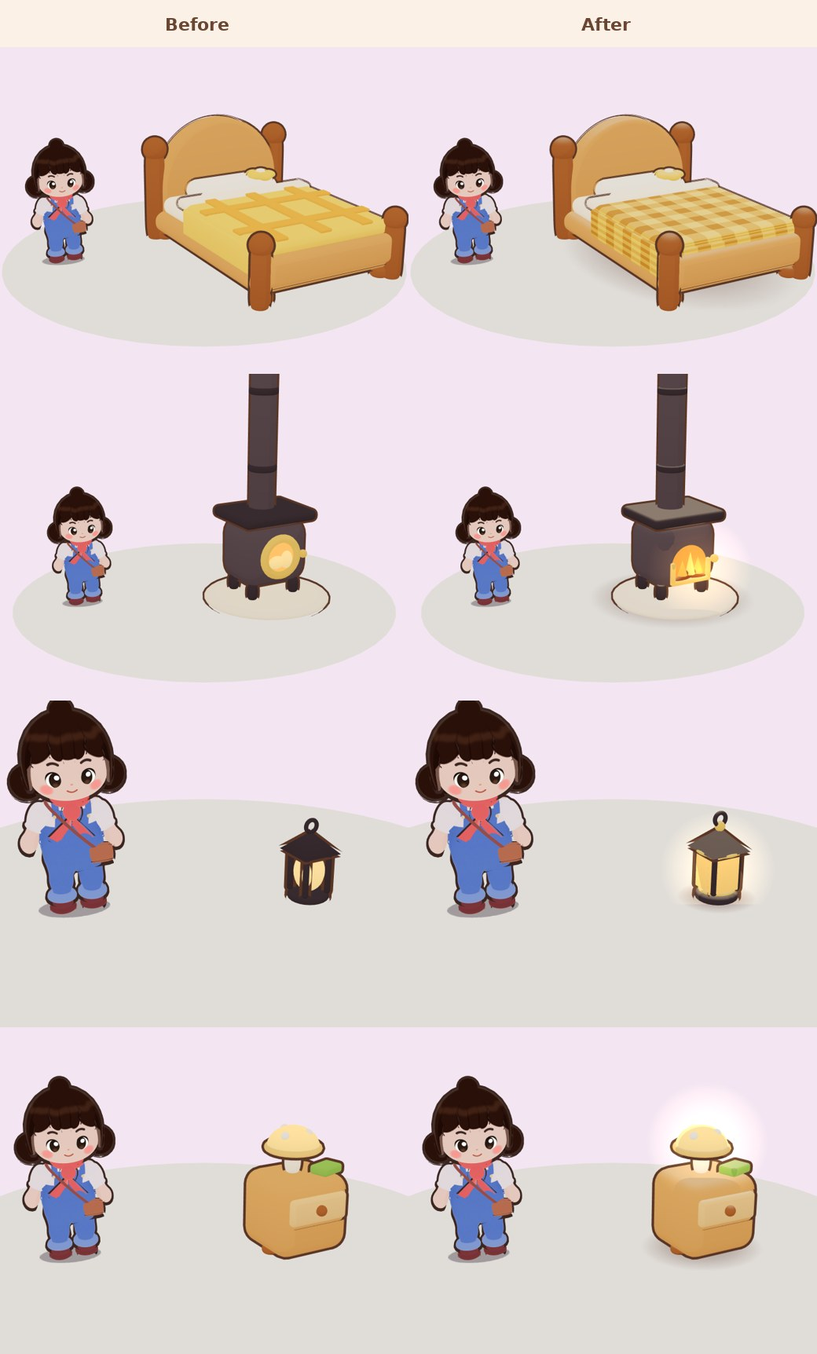
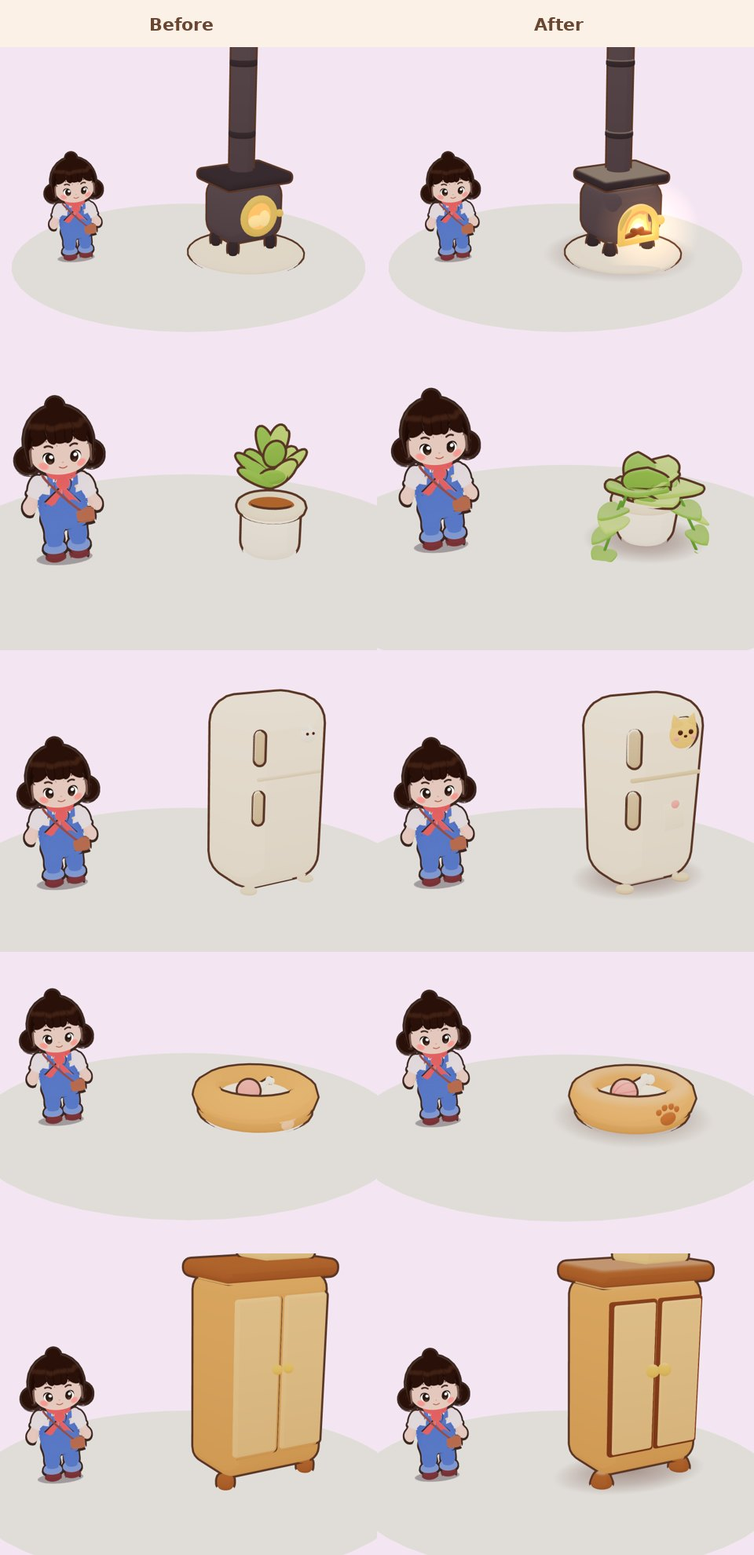
Props: animated fire, pothos + leafy plants, chibi shaping, bigger details
Kit: an animated cartoon fire (posterised flame bands that lick and sway,
one shared shader), flickering halos, heart-shaped leaves with clumps and
trailing vines, an arch-frame primitive, and belly / taper shaping so
bodies bulge a little instead of being plain boxes.

Items: the wood stove has a real fire (live flame, embers, glowing log
ends, brass arch); plants are now a pothos with trailing vines, a leafy
floor plant and a daisy pot; fridge, wardrobe, nightstand, pouf, stool and
legs get gentle bulges/tapers; bigger knobs and drawn panel seams, a large
cat-face magnet on the fridge, a big paw print, chunkier bone and a wrapped
yarn ball on the pet bed; gingham cloth on the table.

Claude-Session: https://claude.ai/code/session_01CNaBwL7WGoZ8QVtCgzA9vc

diff --git a/src/props/items/home.js b/src/props/items/home.js
@@ -1,133 +1,159 @@
-// First batch of chibi furniture, after the cozy-house concept. All in room units (she is ~0.41 tall), front = +z.
-// Chunky on purpose: thick tops, stubby round legs, big knobs, puffy cushions, every edge rounded.
+// First batch of chibi furniture, after the cozy-house concept. All in room units (she is ~0.39 tall), front = +z.
+// Chunky on purpose: thick tops, stubby round legs, big knobs, puffy cushions, every edge rounded, bodies that bulge a
+// little (belly / taper), and details drawn big enough to read from the game camera.
 import { defineProp } from '../kit.js'
 
 const PI = Math.PI
-const legs4 = (k, w, d, h, r = 0.026, name = 'woodDark', y0 = 0) => { for (const sx of [-1, 1]) for (const sz of [-1, 1]) k.pill([r, h], [sx * w / 2, y0 + h / 2, sz * d / 2], name, { bevel: 0.35 }) }
+const legs4 = (k, w, d, h, r = 0.026, name = 'woodDark', y0 = 0) => { for (const sx of [-1, 1]) for (const sz of [-1, 1]) k.pill([r, h], [sx * w / 2, y0 + h / 2, sz * d / 2], name, { bevel: 0.35, taper: -0.2 }) }
+// a raised panel with a darker inset line around it (drawers, doors): reads like the concept's drawn seams
+const panel = (k, size, pos, name, line = 'trim', r = 0.02) => { k.box([size[0] + 0.012, size[1] + 0.012, size[2]], [pos[0], pos[1], pos[2] - 0.003], line, { r: r + 0.004, out: false, hi: 0 }); k.box(size, pos, name, { r, out: false }) }
 
-defineProp('bed', { name: 'Bed', size: [0.5, 0.34, 0.72], tags: ['bedroom'], pal: { frame: 'wood', post: 'woodDark', sheet: 'cream', quilt: 'quilt', stripe: 'quiltDark', pillow: 'white', flower: 'quilt' } }, (k) => {
-  // quilt top at ~0.15: knee-to-hip on her (she is ~0.39 tall)
+defineProp('bed', { name: 'Bed', size: [0.5, 0.34, 0.72], tags: ['bedroom'], pal: { frame: 'wood', post: 'woodDark', sheet: 'cream', quilt: 'quilt', pillow: 'white', flower: 'quilt' } }, (k) => {
+  // quilt top at ~0.15: knee-to-hip on her
   legs4(k, 0.42, 0.62, 0.035, 0.03, 'post')
-  k.box([0.5, 0.07, 0.68], [0, 0.065, 0], 'frame', { r: 0.03 })
+  k.box([0.5, 0.07, 0.68], [0, 0.065, 0], 'frame', { r: 0.03, belly: 0.03 })
   // headboard: a fat arch between two round posts with ball finials
   k.arch(0.42, 0.12, 0.05, [0, 0.05, -0.33], 'frame', { bevel: 0.014 })
-  for (const s of [-1, 1]) { k.pill([0.032, 0.3], [s * 0.235, 0.15, -0.33], 'post', { bevel: 0.2 }); k.ball(0.04, [s * 0.235, 0.31, -0.33], 'post') }
+  k.arch(0.3, 0.07, 0.02, [0, 0.1, -0.3], 'woodLight', { bevel: 0.008, out: false })
+  for (const s of [-1, 1]) { k.pill([0.034, 0.3], [s * 0.235, 0.15, -0.33], 'post', { bevel: 0.2, belly: 0.12 }); k.ball(0.044, [s * 0.235, 0.315, -0.33], 'post') }
   // footboard: lower, same language
   k.box([0.44, 0.09, 0.045], [0, 0.1, 0.335], 'frame', { r: 0.02 })
-  for (const s of [-1, 1]) { k.pill([0.028, 0.18], [s * 0.235, 0.09, 0.335], 'post', { bevel: 0.2 }); k.ball(0.034, [s * 0.235, 0.185, 0.335], 'post') }
-  // mattress, pillow, quilt with a folded-back sheet and fat stripes, flower cushion
+  for (const s of [-1, 1]) { k.pill([0.03, 0.18], [s * 0.235, 0.09, 0.335], 'post', { bevel: 0.2, belly: 0.12 }); k.ball(0.038, [s * 0.235, 0.19, 0.335], 'post') }
+  // mattress, pillow, gingham quilt draped over the sides and foot, a folded-back sheet, flower cushion
   k.puff([0.45, 0.06, 0.62], [0, 0.12, 0], 'sheet', { bulge: 0.25 })
-  k.puff([0.3, 0.065, 0.14], [0, 0.17, -0.22], 'pillow', { bulge: 0.6 })
-  k.puff([0.48, 0.045, 0.44], [0, 0.155, 0.1], 'quilt', { bulge: 0.3, pattern: 'gingham', tile: 5 })
-  k.puff([0.48, 0.032, 0.07], [0, 0.17, -0.13], 'sheet', { bulge: 0.4 })
+  k.puff([0.32, 0.075, 0.15], [0, 0.175, -0.22], 'pillow', { bulge: 0.75 })
+  k.puff([0.48, 0.045, 0.44], [0, 0.155, 0.1], 'quilt', { bulge: 0.35, pattern: 'gingham', tile: 5 })
+  k.puff([0.48, 0.032, 0.07], [0, 0.17, -0.13], 'sheet', { bulge: 0.45 })
   for (const s of [-1, 1]) k.puff([0.014, 0.09, 0.42], [s * 0.242, 0.12, 0.1], 'quilt', { bulge: 0.1, out: false, pattern: 'gingham', tile: 4 })
   k.puff([0.46, 0.08, 0.014], [0, 0.12, 0.322], 'quilt', { bulge: 0.1, out: false, pattern: 'gingham', tile: 5 })
-  for (let i = 0; i < 5; i++) { const a = i / 5 * PI * 2; k.ball([0.026, 0.014, 0.026], [0.1 + Math.sin(a) * 0.026, 0.21, -0.2 + Math.cos(a) * 0.026], 'flower') }
-  k.ball([0.018, 0.016, 0.018], [0.1, 0.216, -0.2], 'cream', { out: false })
+  for (let i = 0; i < 5; i++) { const a = i / 5 * PI * 2; k.ball([0.034, 0.018, 0.034], [0.1 + Math.sin(a) * 0.034, 0.215, -0.19 + Math.cos(a) * 0.034], 'flower', { rot: [0, a, 0] }) }
+  k.ball([0.024, 0.02, 0.024], [0.1, 0.224, -0.19], 'cream', { out: false })
 })
 
 defineProp('roundTable', { name: 'Round table', size: [0.42, 0.24, 0.42], tags: ['living'], pal: { top: 'wood', leg: 'woodDark', cloth: 'cream' } }, (k, o) => {
-  k.pill([0.2, 0.045], [0, 0.135, 0], 'top', { bevel: 0.45, seg: 32 })
+  k.pill([0.2, 0.048], [0, 0.135, 0], 'top', { bevel: 0.48, seg: 32 })
   k.pill([0.16, 0.025], [0, 0.105, 0], 'leg', { bevel: 0.3, out: false })
-  for (let i = 0; i < 3; i++) { const a = i / 3 * PI * 2 + 0.5; k.stick([0.024, 0.13], [Math.sin(a) * 0.105, 0.055, Math.cos(a) * 0.105], 'leg', { rot: [-Math.cos(a) * 0.25, 0, Math.sin(a) * 0.25] }) }
-  k.box([0.3, 0.01, 0.12], [0, 0.16, 0], 'cloth', { r: 0.004, rot: [0, 0.3, 0] })
-  if (o.vase !== false) { k.ball([0.032, 0.038, 0.032], [-0.02, 0.195, -0.04], 'white'); k.pill([0.016, 0.03], [-0.02, 0.235, -0.04], 'white', { bevel: 0.3 })
-    k.leaves([-0.02, 0.25, -0.04], 5, 0.05, 'leaf', { tilt: 1.1 })
-    for (let i = 0; i < 5; i++) { const a = i * 1.3; k.daisy([-0.02 + Math.sin(a) * 0.028 * (i ? 1 : 0), 0.27 + (i % 2) * 0.012, -0.04 + Math.cos(a) * 0.028 * (i ? 1 : 0)], 0.022) } }
+  for (let i = 0; i < 3; i++) { const a = i / 3 * PI * 2 + 0.5; k.stick([0.026, 0.13], [Math.sin(a) * 0.105, 0.055, Math.cos(a) * 0.105], 'leg', { rot: [-Math.cos(a) * 0.25, 0, Math.sin(a) * 0.25], taper: -0.25 }) }
+  k.box([0.3, 0.01, 0.12], [0, 0.162, 0], 'cloth', { r: 0.004, rot: [0, 0.3, 0], pattern: 'gingham', tile: 3 })
+  if (o.vase !== false) { k.pill([0.032, 0.05], [-0.02, 0.19, -0.04], 'white', { bevel: 0.45, belly: 0.25 })
+    k.leaf([-0.02, 0.22, -0.04], 0.05, 0.8, 0.7); k.leaf([-0.02, 0.22, -0.04], 0.045, -2.2, 0.6, 'leafLight')
+    for (let i = 0; i < 5; i++) { const a = i * 1.3; k.daisy([-0.02 + Math.sin(a) * 0.03 * (i ? 1 : 0), 0.255 + (i % 2) * 0.014, -0.04 + Math.cos(a) * 0.03 * (i ? 1 : 0)], 0.026) } }
 })
 
-defineProp('pouf', { name: 'Pouf', size: [0.19, 0.1, 0.19], tags: ['living'], pal: { body: 'orange', top: '#f8b862', button: 'woodDark' } }, (k) => {
-  k.pill([0.092, 0.085], [0, 0.043, 0], 'body', { bevel: 0.42 })
-  k.puff([0.15, 0.03, 0.15], [0, 0.087, 0], 'top', { bulge: 0.8, out: false })
-  k.ball([0.012, 0.007, 0.012], [0, 0.103, 0], 'button', { out: false })
+defineProp('pouf', { name: 'Pouf', size: [0.2, 0.1, 0.2], tags: ['living'], pal: { body: 'orange', top: '#f8b862', button: 'woodDark' } }, (k) => {
+  k.pill([0.088, 0.085], [0, 0.043, 0], 'body', { bevel: 0.45, belly: 0.16 })
+  k.puff([0.15, 0.03, 0.15], [0, 0.088, 0], 'top', { bulge: 0.9, out: false })
+  k.ball([0.016, 0.009, 0.016], [0, 0.105, 0], 'button', { out: false })
 })
 
 defineProp('stool', { name: 'Stool', size: [0.16, 0.14, 0.16], tags: ['living'], pal: { seat: 'woodLight', leg: 'wood' } }, (k) => {
-  k.pill([0.075, 0.032], [0, 0.125, 0], 'seat', { bevel: 0.45 })
-  for (let i = 0; i < 3; i++) { const a = i / 3 * PI * 2; k.stick([0.016, 0.13], [Math.sin(a) * 0.048, 0.06, Math.cos(a) * 0.048], 'leg', { rot: [-Math.cos(a) * 0.22, 0, Math.sin(a) * 0.22] }) }
-  k.ring(0.04, 0.008, [0, 0.05, 0], 'leg', { rot: [PI / 2, 0, 0], out: false })
+  k.pill([0.078, 0.034], [0, 0.125, 0], 'seat', { bevel: 0.48, belly: 0.06 })
+  for (let i = 0; i < 3; i++) { const a = i / 3 * PI * 2; k.stick([0.018, 0.13], [Math.sin(a) * 0.05, 0.06, Math.cos(a) * 0.05], 'leg', { rot: [-Math.cos(a) * 0.24, 0, Math.sin(a) * 0.24], taper: -0.25 }) }
+  k.ring(0.042, 0.009, [0, 0.05, 0], 'leg', { rot: [PI / 2, 0, 0], out: false })
 })
 
-defineProp('woodStove', { name: 'Wood stove', size: [0.42, 0.9, 0.42], tags: ['kitchen', 'warm'], pal: { body: 'iron', dark: 'ironDark', hearth: 'stone', trim: 'brass' } }, (k) => {
+defineProp('woodStove', { name: 'Wood stove', size: [0.42, 0.9, 0.42], tags: ['kitchen', 'warm', 'light'], pal: { body: 'iron', dark: 'ironDark', hearth: 'stone', trim: 'brass' } }, (k) => {
   k.pill([0.21, 0.03], [0, 0.015, 0.02], 'hearth', { bevel: 0.45, seg: 32 })
-  for (const sx of [-1, 1]) for (const sz of [-1, 1]) k.pill([0.018, 0.05], [sx * 0.08, 0.055, sz * 0.06], 'dark', { bevel: 0.4 })
-  k.box([0.24, 0.22, 0.2], [0, 0.18, 0], 'body', { r: 0.06 })
+  for (const sx of [-1, 1]) for (const sz of [-1, 1]) k.pill([0.02, 0.05], [sx * 0.08, 0.055, sz * 0.06], 'dark', { bevel: 0.4, taper: -0.3 })
+  k.box([0.24, 0.22, 0.2], [0, 0.18, 0], 'body', { r: 0.06, belly: 0.1 })
   k.box([0.27, 0.035, 0.22], [0, 0.3, 0], 'dark', { r: 0.015 })
-  // firebox window: warm glowing back, two logs, licking flames, an arched brass frame
-  k.arch(0.13, 0.05, 0.02, [0, 0.1, 0.095], '#ff9a3c', { glow: true, bevel: 0 })
-  for (const [x, a] of [[-0.02, 0.35], [0.02, -0.35]]) k.stick([0.012, 0.09], [x, 0.112, 0.106], '#7a4426', { rot: [0, 0, PI / 2 + a], out: false })
-  for (const [x, h, c] of [[-0.03, 0.05, '#ffb347'], [0.0, 0.075, '#ffd36a'], [0.03, 0.055, '#ffb347'], [0.0, 0.04, '#fff0b8']]) k.cone([0.018, h], [x, 0.12 + h / 2, 0.108], c, { glow: true, n: 8 })
-  k.box([0.15, 0.016, 0.02], [0, 0.098, 0.112], 'trim', { r: 0.006, out: false })
-  for (const s of [-1, 1]) k.box([0.014, 0.07, 0.02], [s * 0.068, 0.132, 0.112], 'trim', { r: 0.006, out: false })
-  k.halo([0, 0.15, 0.16], 0.17, '#ffa050')
-  k.knob([0.092, 0.16, 0.112], 'trim', 0.014)
+  // the firebox: a deep warm hollow, glowing embers, two crossed logs with hot ends, a live flame, a brass arch
+  k.arch(0.13, 0.04, 0.012, [0, 0.1, 0.098], '#5a2414', { glow: true, bevel: 0 })
+  k.ball([0.06, 0.016, 0.008], [0, 0.104, 0.104], '#ff6a24', { glow: true })
+  for (const [x, z] of [[-0.03, 0.105], [0.0, 0.108], [0.032, 0.106]]) k.ball([0.012, 0.008, 0.006], [x, 0.104, z + 0.004], '#ffb050', { glow: true })
+  for (const [x, a] of [[-0.018, 0.3], [0.018, -0.3]]) { k.stick([0.013, 0.1], [x, 0.114, 0.106], '#6e3c22', { rot: [0, 0, PI / 2 + a], out: false })
+    k.ball([0.011, 0.011, 0.004], [x + Math.cos(a) * 0.047 * (x < 0 ? -1 : 1), 0.114 + Math.sin(a) * 0.047 * (x < 0 ? -1 : 1), 0.113], '#ff8a3a', { glow: true }) }
+  k.fire([0, 0.104, 0.11], 0.13, 0.11)
+  k.archFrame(0.13, 0.04, 0.014, 0.012, [0, 0.1, 0.12], 'trim', { out: false })
+  k.knob([0.095, 0.15, 0.112], 'trim', 0.018)
+  k.halo([0, 0.15, 0.17], 0.17, '#ffa050', { flicker: true })
+  // chimney with collars
   k.pill([0.042, 0.52], [0, 0.57, -0.02], 'body', { bevel: 0.03 })
-  for (const y of [0.45, 0.7]) k.pill([0.048, 0.025], [0, y, -0.02], 'dark', { bevel: 0.3, out: false })
-  k.pill([0.05, 0.03], [0, 0.84, -0.02], 'dark', { bevel: 0.3 })
+  for (const y of [0.45, 0.7]) k.pill([0.05, 0.025], [0, y, -0.02], 'dark', { bevel: 0.3, out: false })
+  k.pill([0.052, 0.03], [0, 0.84, -0.02], 'dark', { bevel: 0.3 })
 })
 
-defineProp('fridge', { name: 'Fridge', size: [0.27, 0.5, 0.22], tags: ['kitchen'], pal: { body: 'cream', seam: '#e4d6bf', handle: '#cdbb9e', sticker: 'white' } }, (k) => {
-  k.box([0.27, 0.49, 0.21], [0, 0.25, 0], 'body', { r: 0.07 })
-  k.box([0.19, 0.008, 0.01], [0, 0.31, 0.105], 'seam', { r: 0.003, out: false })
-  k.stick([0.011, 0.08], [-0.095, 0.39, 0.112], 'handle'); k.stick([0.011, 0.08], [-0.095, 0.24, 0.112], 'handle')
-  for (const s of [-1, 1]) k.pill([0.022, 0.012], [s * 0.09, 0.006, 0.07], 'seam', { bevel: 0.4, out: false })
-  // a little cat-face magnet
-  k.ball([0.024, 0.022, 0.008], [0.05, 0.41, 0.108], 'sticker', { out: false })
-  for (const s of [-1, 1]) k.cone([0.01, 0.018], [0.05 + s * 0.014, 0.432, 0.108], 'sticker', { rot: [0, 0, -s * 0.35], out: false })
-  for (const s of [-1, 1]) k.ball(0.0035, [0.05 + s * 0.009, 0.412, 0.116], 'ink', { out: false })
+defineProp('fridge', { name: 'Fridge', size: [0.28, 0.5, 0.22], tags: ['kitchen'], pal: { body: 'cream', seam: '#d9c6a6', handle: '#cdbb9e', cat: '#f7c97a', ear: '#f2a8a0' } }, (k) => {
+  k.box([0.27, 0.49, 0.21], [0, 0.25, 0], 'body', { r: 0.075, taper: 0.07, belly: 0.04 })
+  k.box([0.21, 0.01, 0.012], [0, 0.31, 0.109], 'seam', { r: 0.004, out: false, hi: 0 })
+  k.stick([0.014, 0.09], [-0.1, 0.39, 0.114], 'handle'); k.stick([0.014, 0.09], [-0.1, 0.235, 0.114], 'handle')
+  for (const s of [-1, 1]) k.pill([0.024, 0.014], [s * 0.09, 0.007, 0.07], 'seam', { bevel: 0.4, out: false })
+  // a big round cat-face magnet: ginger, pink ears, dot eyes, blush
+  k.ball([0.042, 0.038, 0.01], [0.045, 0.415, 0.112], 'cat')
+  for (const s of [-1, 1]) { k.cone([0.017, 0.03], [0.045 + s * 0.026, 0.452, 0.112], 'cat', { rot: [0, 0, -s * 0.4], out: false }); k.cone([0.009, 0.016], [0.045 + s * 0.026, 0.452, 0.116], 'ear', { rot: [0, 0, -s * 0.4], out: false }) }
+  for (const s of [-1, 1]) { k.ball(0.0065, [0.045 + s * 0.016, 0.42, 0.121], 'ink', { out: false }); k.ball([0.008, 0.005, 0.003], [0.045 + s * 0.026, 0.405, 0.12], 'rose', { out: false }) }
+  k.ball([0.005, 0.0035, 0.003], [0.045, 0.41, 0.122], 'ink', { out: false })
+  // a little note held by a heart magnet
+  k.box([0.06, 0.07, 0.004], [0.03, 0.2, 0.108], 'paper', { r: 0.003, rot: [0, 0, 0.08], out: false }); k.ball([0.012, 0.011, 0.006], [0.03, 0.233, 0.112], 'rose', { out: false })
 })
 
 defineProp('lantern', { name: 'Lantern', size: [0.09, 0.16, 0.09], tags: ['light', 'outdoor'], pal: { cage: 'ironDark', trim: 'brass', glass: '#ffd27a', core: '#fff3cf' }, opts: { hang: false } }, (k, o) => {
-  k.pill([0.042, 0.02], [0, 0.01, 0], 'cage', { bevel: 0.4 })
-  k.pill([0.036, 0.008], [0, 0.022, 0], 'trim', { bevel: 0.4, out: false })
-  for (let i = 0; i < 4; i++) { const a = i / 4 * PI * 2; k.box([0.05, 0.072, 0.006], [Math.sin(a) * 0.031, 0.062, Math.cos(a) * 0.031], 'glass', { r: 0.002, rot: [0, a, 0], glow: true }) }
+  k.pill([0.044, 0.02], [0, 0.01, 0], 'cage', { bevel: 0.4 })
+  k.pill([0.038, 0.009], [0, 0.023, 0], 'trim', { bevel: 0.4, out: false })
+  for (let i = 0; i < 4; i++) { const a = i / 4 * PI * 2; k.box([0.05, 0.072, 0.006], [Math.sin(a) * 0.031, 0.062, Math.cos(a) * 0.031], 'glass', { r: 0.002, rot: [0, a, 0], glow: true, belly: 0.08 }) }
   k.ball([0.016, 0.024, 0.016], [0, 0.06, 0], 'core', { glow: true })
-  for (let i = 0; i < 4; i++) { const a = i / 4 * PI * 2 + PI / 4; k.stick([0.0065, 0.082], [Math.sin(a) * 0.037, 0.062, Math.cos(a) * 0.037], 'cage') }
-  k.pill([0.044, 0.01], [0, 0.102, 0], 'trim', { bevel: 0.4, out: false })
-  k.cone([0.06, 0.042], [0, 0.124, 0], 'cage', { n: 4, rot: [0, PI / 4, 0] })
-  k.ball(0.01, [0, 0.148, 0], 'trim', { out: false }); k.ring(0.012, 0.004, [0, 0.162, 0], 'cage', { out: false })
+  for (let i = 0; i < 4; i++) { const a = i / 4 * PI * 2 + PI / 4; k.stick([0.007, 0.082], [Math.sin(a) * 0.037, 0.062, Math.cos(a) * 0.037], 'cage') }
+  k.pill([0.046, 0.011], [0, 0.102, 0], 'trim', { bevel: 0.4, out: false })
+  k.cone([0.062, 0.044], [0, 0.125, 0], 'cage', { n: 4, rot: [0, PI / 4, 0] })
+  k.ball(0.012, [0, 0.15, 0], 'trim', { out: false }); k.ring(0.013, 0.0045, [0, 0.165, 0], 'cage', { out: false })
   if (o.hang) k.stick([0.003, 0.12], [0, 0.23, 0], 'cage', { out: false })
-  k.halo([0, 0.062, 0], 0.11)
+  k.halo([0, 0.062, 0], 0.11, '#ffc870', { flicker: true })
 })
 
-defineProp('plant', { name: 'Potted plant', size: [0.2, 0.3, 0.2], tags: ['plant', 'outdoor'], pal: { pot: 'pot', rim: 'potRim', soil: 'woodDark', leaf: 'leaf' }, opts: { flowers: false, big: false } }, (k, o) => {
-  const s = o.big ? 1.45 : 1
-  k.pill([0.07 * s, 0.12 * s], [0, 0.06 * s, 0], 'pot', { bevel: 0.25 })
-  k.ring(0.068 * s, 0.014 * s, [0, 0.118 * s, 0], 'rim', { rot: [PI / 2, 0, 0] })
-  k.pill([0.06 * s, 0.01], [0, 0.118 * s, 0], 'soil', { out: false })
-  k.leaves([0, 0.15 * s, 0], o.big ? 12 : 8, 0.11 * s, 'leaf', { tilt: 0.75, up: 0.02 * s })
-  k.leaves([0, 0.2 * s, 0], o.big ? 7 : 4, 0.09 * s, 'leaf', { tilt: 0.35, phase: 1, up: 0.02 * s })
-  if (o.flowers) for (let i = 0; i < 5; i++) { const a = i * 1.26; k.daisy([Math.sin(a) * 0.045 * s * (i ? 1 : 0), 0.25 * s + (i % 2) * 0.015, Math.cos(a) * 0.045 * s * (i ? 1 : 0)], 0.026 * s) }
+// pot used by the plants: soft belly, rolled rim, dark soil
+const pot = (k, r, h, name = 'pot') => { k.pill([r, h], [0, h / 2, 0], name, { bevel: 0.28, belly: 0.1, taper: 0.1 }); k.ring(r * 1.04, r * 0.2, [0, h * 0.97, 0], 'potRim', { rot: [PI / 2, 0, 0] }); k.pill([r * 0.9, 0.01], [0, h * 0.97, 0], 'soil', { out: false }) }
+
+defineProp('plant', { name: 'Pothos', size: [0.22, 0.24, 0.22], tags: ['plant', 'outdoor'], pal: { pot: 'pot', potRim: 'potRim', soil: 'woodDark', leaf: 'leaf' } }, (k) => {
+  pot(k, 0.068, 0.11)
+  k.clump([0, 0.11, 0], 7, 0.12, { e: 0.3 })
+  k.clump([0, 0.13, 0], 4, 0.1, { e: 0.8, phase: 0.8 })
+  for (const [a, len, n] of [[0.6, 0.15, 4], [2.4, 0.11, 3], [-1.3, 0.19, 5]]) k.vine([Math.sin(a) * 0.07, 0.11, Math.cos(a) * 0.07], a, len, n, 0.075)
 })
 
-defineProp('wardrobe', { name: 'Wardrobe', size: [0.36, 0.66, 0.24], tags: ['bedroom'], pal: { body: 'wood', panel: 'woodLight', crown: 'woodDark', knob: 'brass', box: '#e9c486' } }, (k, o) => {
-  for (const sx of [-1, 1]) k.pill([0.024, 0.04], [sx * 0.14, 0.02, 0.06], 'crown', { bevel: 0.4 })
-  k.box([0.34, 0.56, 0.22], [0, 0.32, 0], 'body', { r: 0.045 })
-  k.box([0.37, 0.045, 0.24], [0, 0.615, 0], 'crown', { r: 0.02 })
-  for (const s of [-1, 1]) { k.box([0.14, 0.44, 0.02], [s * 0.078, 0.33, 0.11], 'panel', { r: 0.03 }); k.knob([s * 0.018, 0.35, 0.125], 'knob', 0.014) }
-  if (o.box !== false) { k.box([0.17, 0.09, 0.15], [0.05, 0.685, 0], 'box', { r: 0.015 }); k.box([0.18, 0.015, 0.16], [0.05, 0.728, 0], '#dcae6a', { r: 0.006 }) }
+defineProp('bigPlant', { name: 'Leafy floor plant', size: [0.34, 0.48, 0.34], tags: ['plant'], pal: { pot: 'pot', potRim: 'potRim', soil: 'woodDark', leaf: 'leaf', stem: 'leafDark' } }, (k) => {
+  pot(k, 0.1, 0.15)
+  for (let i = 0; i < 11; i++) { const a = i * 2.39996, e = 0.9 - (i % 4) * 0.12, h = 0.16 + (i % 3) * 0.06, sx = Math.sin(a) * 0.035, sz = Math.cos(a) * 0.035
+    k.stick([0.006, h], [sx, 0.15 + h / 2, sz], 'stem', { rot: [Math.cos(a) * 0.25, 0, -Math.sin(a) * 0.25], out: false })
+    k.leaf([sx + Math.sin(a) * 0.04, 0.15 + h - 0.01, sz + Math.cos(a) * 0.04], 0.13 + (i % 3) * 0.02, a, e, i % 3 === 0 ? 'leafLight' : 'leaf', { w: 0.62, roll: Math.sin(i) * 0.3 }) }
+})
+
+defineProp('flowerPot', { name: 'Daisy pot', size: [0.17, 0.2, 0.17], tags: ['plant', 'outdoor'], pal: { pot: 'pot', potRim: 'potRim', soil: 'woodDark', leaf: 'leaf' } }, (k) => {
+  pot(k, 0.065, 0.1)
+  k.clump([0, 0.1, 0], 8, 0.07, { e: 0.3 })
+  for (let i = 0; i < 7; i++) { const a = i * 0.9, r = i ? 0.045 : 0; k.stick([0.003, 0.07], [Math.sin(a) * r * 0.7, 0.13, Math.cos(a) * r * 0.7], 'leafDark', { out: false }); k.daisy([Math.sin(a) * r, 0.17 + (i % 2) * 0.02, Math.cos(a) * r], 0.05) }
+})
+
+defineProp('wardrobe', { name: 'Wardrobe', size: [0.38, 0.66, 0.24], tags: ['bedroom'], pal: { body: 'wood', panel: 'woodLight', crown: 'woodDark', knob: 'brass', box: '#e9c486' } }, (k, o) => {
+  for (const sx of [-1, 1]) k.pill([0.028, 0.045], [sx * 0.14, 0.022, 0.06], 'crown', { bevel: 0.4, taper: -0.3 })
+  k.box([0.34, 0.56, 0.22], [0, 0.32, 0], 'body', { r: 0.05, belly: 0.06 })
+  k.box([0.38, 0.05, 0.25], [0, 0.615, 0], 'crown', { r: 0.022 })
+  for (const s of [-1, 1]) { panel(k, [0.14, 0.43, 0.02], [s * 0.078, 0.33, 0.115], 'panel'); k.knob([s * 0.02, 0.35, 0.13], 'knob', 0.019) }
+  if (o.box !== false) { k.box([0.17, 0.09, 0.15], [0.05, 0.685, 0], 'box', { r: 0.015, rot: [0, 0.12, 0] }); k.box([0.18, 0.015, 0.16], [0.05, 0.728, 0], '#dcae6a', { r: 0.006, rot: [0, 0.12, 0] }) }
 })
 
 defineProp('nightstand', { name: 'Nightstand + mushroom lamp', size: [0.19, 0.3, 0.18], tags: ['bedroom', 'light'], pal: { body: 'wood', drawer: 'woodLight', knob: 'woodDark', stem: 'cream', cap: 'glow' } }, (k) => {
-  k.box([0.18, 0.17, 0.17], [0, 0.095, 0], 'body', { r: 0.035 })
-  k.box([0.14, 0.06, 0.02], [0, 0.12, 0.085], 'drawer', { r: 0.015 }); k.knob([0, 0.12, 0.098], 'knob', 0.012)
-  for (const sx of [-1, 1]) k.pill([0.02, 0.02], [sx * 0.06, 0.01, 0], 'knob', { bevel: 0.4, out: false })
-  k.pill([0.018, 0.06], [-0.01, 0.21, 0], 'stem', { bevel: 0.4 })
-  k.dome([0.058, 0.048, 0.058], [-0.01, 0.235, 0], 'cap', { glow: true })
+  k.box([0.18, 0.17, 0.17], [0, 0.095, 0], 'body', { r: 0.04, belly: 0.1 })
+  panel(k, [0.13, 0.06, 0.02], [0, 0.12, 0.09], 'drawer'); k.knob([0, 0.12, 0.104], 'knob', 0.016)
+  for (const sx of [-1, 1]) k.pill([0.022, 0.02], [sx * 0.06, 0.01, 0], 'knob', { bevel: 0.4, out: false })
+  k.pill([0.02, 0.06], [-0.01, 0.21, 0], 'stem', { bevel: 0.4, belly: 0.25 })
+  k.dome([0.06, 0.05, 0.06], [-0.01, 0.235, 0], 'cap', { glow: true })
   k.halo([-0.01, 0.25, 0.02], 0.13)
-  k.ring(0.056, 0.007, [-0.01, 0.236, 0], '#f4c070', { rot: [PI / 2, 0, 0] })
-  for (const [x, z] of [[0.02, 0.025], [-0.035, 0.02], [0.0, -0.035]]) k.ball(0.009, [-0.01 + x, 0.27, z], 'white', { out: false })
+  k.ring(0.058, 0.008, [-0.01, 0.236, 0], '#f4c070', { rot: [PI / 2, 0, 0] })
+  for (const [x, z] of [[0.022, 0.025], [-0.036, 0.018], [0.0, -0.036]]) k.ball(0.011, [-0.01 + x, 0.272, z], 'white', { out: false })
   k.box([0.06, 0.02, 0.045], [0.05, 0.19, 0.04], 'leaf', { r: 0.006, rot: [0, 0.3, 0] })
 })
 
-defineProp('petBed', { name: 'Pet bed', size: [0.36, 0.09, 0.36], tags: ['pet'], pal: { base: 'wood', rim: '#e8a868', cushion: 'cream', paw: 'peach' } }, (k) => {
+defineProp('petBed', { name: 'Pet bed', size: [0.36, 0.1, 0.36], tags: ['pet'], pal: { base: 'wood', rim: '#eaa86a', cushion: 'cream', paw: '#b8703e', bone: 'white', yarn: 'rose' } }, (k) => {
   k.pill([0.17, 0.05], [0, 0.025, 0], 'base', { bevel: 0.4, seg: 32 })
-  k.ring(0.145, 0.04, [0, 0.07, 0], 'rim', { rot: [PI / 2, 0, 0] })
+  k.ring(0.145, 0.042, [0, 0.07, 0], 'rim', { rot: [PI / 2, 0, 0] })
   k.pill([0.125, 0.03], [0, 0.06, 0], 'cushion', { bevel: 0.5, seg: 32, out: false })
-  k.ball([0.022, 0.016, 0.006], [0, 0.03, 0.17], 'paw', { out: false })
-  for (const a of [-0.9, -0.3, 0.3, 0.9]) k.ball([0.008, 0.008, 0.005], [Math.sin(a) * 0.026, 0.05 - Math.abs(a) * 0.006, 0.168], 'paw', { out: false })
-  // a bone + a yarn ball
-  k.stick([0.008, 0.07], [0.05, 0.088, -0.02], 'white', { rot: [0, 0.5, PI / 2], order: 'YXZ' })
-  for (const s of [-1, 1]) for (const t of [-1, 1]) k.ball(0.011, [0.05 + s * 0.03 * Math.cos(0.5), 0.088, -0.02 - s * 0.03 * Math.sin(0.5) + t * 0.006], 'white', { out: false })
-  k.ball(0.032, [-0.05, 0.1, 0.04], 'rose')
+  // a big paw print on the front of the rim
+  k.ball([0.026, 0.02, 0.008], [0, 0.058, 0.184], 'paw', { out: false })
+  for (const [x, y] of [[-0.03, 0.08], [-0.011, 0.091], [0.011, 0.091], [0.03, 0.08]]) k.ball([0.009, 0.01, 0.006], [x, y, 0.18], 'paw', { out: false })
+  // a chunky bone + a yarn ball with wraps
+  k.stick([0.012, 0.1], [0.05, 0.09, -0.03], 'bone', { rot: [0, 0.5, PI / 2], order: 'YXZ' })
+  for (const s of [-1, 1]) for (const t of [-1, 1]) k.ball(0.016, [0.05 + s * 0.045 * Math.cos(0.5) + t * 0.008 * Math.sin(0.5), 0.09, -0.03 - s * 0.045 * Math.sin(0.5) + t * 0.008 * Math.cos(0.5)], 'bone', { out: false })
+  k.ball(0.036, [-0.055, 0.1, 0.04], 'yarn')
+  for (const [rx, rz] of [[0.4, 0], [-0.5, 0.9], [1.2, 0.3]]) k.ring(0.034, 0.003, [-0.055, 0.1, 0.04], '#e3868f', { rot: [rx, 0, rz], out: false })
+  k.stick([0.003, 0.08], [-0.01, 0.075, 0.08], '#e3868f', { rot: [PI / 2, 0.6, 0], order: 'YXZ', out: false })
 })

diff --git a/src/props/kit.js b/src/props/kit.js
@@ -12,7 +12,7 @@
 //   <Prop id="pouf" position={[x, 0, z]} />                          // React wrapper (props/Prop.jsx)
 import * as THREE from 'three'
 import { RoundedBoxGeometry } from 'three/examples/jsm/geometries/RoundedBoxGeometry.js'
-import { mergeGeometries } from 'three/examples/jsm/utils/BufferGeometryUtils.js'
+import { mergeGeometries, mergeVertices } from 'three/examples/jsm/utils/BufferGeometryUtils.js'
 
 // ---------- palette: named swatches shared by every prop (items refer to these names, or to raw hex) ----------
 export const PAL = {
@@ -42,6 +42,7 @@ export const SHADOW = new THREE.MeshBasicMaterial({ map: radial([[0, 'rgba(90,50
 // warm halo billboard around lamps / fire (additive)
 const HALO_TEX = radial([[0, 'rgba(255,255,255,.9)'], [0.25, 'rgba(255,255,255,.35)'], [1, 'rgba(255,255,255,0)']])
 const haloMats = new Map()
+function flicker() { const t = performance.now() / 1000, k = 1 + Math.sin(t * 7.3 + this.id) * 0.06 + Math.sin(t * 13.1) * 0.04; this.scale.setScalar(this.userData.r * 2 * k) }
 const haloMat = (c) => { if (!haloMats.has(c)) haloMats.set(c, new THREE.SpriteMaterial({ map: HALO_TEX, color: c, transparent: true, depthWrite: false, blending: THREE.AdditiveBlending, toneMapped: false, opacity: 0.55 })); return haloMats.get(c) }
 // view-space inverted-hull outline (same trick as the characters), chunky and soft brown
 const OUT_VS = `uniform float uT; void main(){ vec4 mv = modelViewMatrix*vec4(position,1.); vec3 n = normalize(normalMatrix*normal);
@@ -78,10 +79,45 @@ function puffGeo(s, bulge) { return cache(`puff${s.map(x => x.toFixed(3))}|${bul
 function archGeo(w, hr, d, bevel) { return cache(`arch${w},${hr},${d},${bevel}`, () => { const s = new THREE.Shape(), r = w / 2; s.moveTo(-r, 0); s.lineTo(r, 0); s.lineTo(r, hr); s.absarc(0, hr, r, 0, Math.PI, false); s.lineTo(-r, 0)
   const g = new THREE.ExtrudeGeometry(s, { depth: d, bevelEnabled: bevel > 0, bevelThickness: bevel, bevelSize: bevel, bevelSegments: 3, curveSegments: 20 }); g.translate(0, 0, -d / 2); g.computeVertexNormals(); return g }) }
 
+// a pothos-style heart leaf: base (stem end) at the origin, tip at +y (length 1), face toward +z, gently cupped
+// and curling back at the tip. Smooth normals so it shades like a soft cushion of a leaf.
+function leafGeo() { return cache('leaf', () => { const s = new THREE.Shape(); s.moveTo(0, 0.12); s.bezierCurveTo(-0.2, -0.06, -0.62, 0.02, -0.55, 0.4); s.bezierCurveTo(-0.5, 0.72, -0.2, 0.9, 0, 1); s.bezierCurveTo(0.2, 0.9, 0.5, 0.72, 0.55, 0.4); s.bezierCurveTo(0.62, 0.02, 0.2, -0.06, 0, 0.12)
+  let g = new THREE.ExtrudeGeometry(s, { depth: 0.03, bevelEnabled: true, bevelThickness: 0.035, bevelSize: 0.04, bevelSegments: 2, curveSegments: 10 }); g.deleteAttribute('uv'); g.deleteAttribute('normal'); g = mergeVertices(g, 1e-4)
+  const p = g.attributes.position; for (let i = 0; i < p.count; i++) { const x = p.getX(i), y = p.getY(i); p.setZ(i, p.getZ(i) - 0.015 - 0.22 * x * x + 0.12 * y * y) }
+  g.computeVertexNormals(); return g }) }
+// an arched frame (ring), w wide inside, hr to the spring of the arch, frame f thick, depth d, centred on z
+function archFrameGeo(w, hr, f, d) { return cache(`archf${w},${hr},${f},${d}`, () => { const o = new THREE.Shape(), r = w / 2 + f; o.moveTo(-r, -f); o.lineTo(r, -f); o.lineTo(r, hr); o.absarc(0, hr, r, 0, Math.PI, false); o.lineTo(-r, -f)
+  const h = new THREE.Path(), ri = w / 2; h.moveTo(-ri, 0); h.lineTo(ri, 0); h.lineTo(ri, hr); h.absarc(0, hr, ri, 0, Math.PI, false); h.lineTo(-ri, 0); o.holes.push(h)
+  const g = new THREE.ExtrudeGeometry(o, { depth: d, bevelEnabled: true, bevelThickness: d * 0.3, bevelSize: f * 0.3, bevelSegments: 2, curveSegments: 20 }); g.translate(0, 0, -d / 2); g.computeVertexNormals(); return g }) }
+
+// ---------- animated cartoon fire: posterised bands (deep orange -> amber -> butter -> cream core) that lick and sway ----------
+const FIRE_T = { value: 0 }
+export const FIRE_MAT = new THREE.ShaderMaterial({ transparent: true, depthWrite: false, toneMapped: false, side: THREE.DoubleSide, uniforms: { uT: FIRE_T },
+  vertexShader: 'varying vec2 vUv; varying float vS; void main(){ vUv = uv; vS = modelMatrix[3].x * 7.1 + modelMatrix[3].z * 3.7 + position.x * 2.3; gl_Position = projectionMatrix * modelViewMatrix * vec4(position, 1.); }',
+  fragmentShader: `uniform float uT; varying vec2 vUv; varying float vS;
+    float h(vec2 p){ return fract(sin(dot(p, vec2(127.1, 311.7))) * 43758.5453); }
+    float n(vec2 p){ vec2 i = floor(p), f = fract(p); f = f * f * (3. - 2. * f); return mix(mix(h(i), h(i + vec2(1., 0.)), f.x), mix(h(i + vec2(0., 1.)), h(i + vec2(1., 1.)), f.x), f.y); }
+    void main(){
+      float t = uT + vS, y = vUv.y, x = (vUv.x - .5) * 2.;
+      float nz = n(vec2(vUv.x * 3.5 + vS, y * 2.6 - t * 2.3)) * .6 + n(vec2(vUv.x * 8. - vS, y * 5.5 - t * 3.6)) * .4;
+      x += (nz - .5) * .55 * y + sin(t * 2.1 + y * 3.) * .06 * y;
+      float tongues = .5 + .5 * cos(x * 3.4 + sin(t * 1.3) * .5);
+      float f = (1. - y) * (1. - x * x) * (.72 + .55 * tongues) - (nz - .5) * .4 * y - y * .12;
+      float a = smoothstep(.07, .12, f); if (a < .01) discard;
+      vec3 c = vec3(.92, .3, .1);
+      c = mix(c, vec3(1., .56, .16), smoothstep(.24, .29, f));
+      c = mix(c, vec3(1., .84, .4), smoothstep(.43, .48, f));
+      c = mix(c, vec3(1., .97, .82), smoothstep(.62, .67, f));
+      gl_FragColor = vec4(c, a);
+      #include <colorspace_fragment>
+    }` })
+const fireGeo = () => cache('fire', () => new THREE.PlaneGeometry(1, 1).translate(0, 0.5, 0))
+const tickFire = () => { FIRE_T.value = performance.now() / 1000 }
+
 // ---------- the builder ----------
 const _m = new THREE.Matrix4(), _q = new THREE.Quaternion(), _e = new THREE.Euler(), _v = new THREE.Vector3(), _s = new THREE.Vector3()
 class Builder {
-  constructor(pal) { this.pal = pal; this.parts = []; this.glow = []; this.pattern = {}; this.halos = [] }
+  constructor(pal) { this.pal = pal; this.parts = []; this.glow = []; this.pattern = {}; this.halos = []; this.fires = [] }
   c(name) { return col(this.pal[name] ?? name) }
   // add geometry g with transform; o: { rot, scale, out (outline? default true), glow, shade (0..1 bottom darkening),
   //   hi (0..1 sheen on up-facing surfaces), pattern ('gingham'), tile (pattern repeats across the part) }
@@ -91,6 +127,9 @@ class Builder {
     if (keepUV) { const uv = geo.attributes.uv; if (!uv) throw new Error('pattern part needs uvs'); const t = o.tile ?? 6; for (let i = 0; i < uv.count; i++) uv.setXY(i, uv.getX(i) * t, uv.getY(i) * t) }
     geo.computeBoundingBox(); const bb = geo.boundingBox, p = geo.attributes.position, ts = new Float32Array(p.count)
     for (let i = 0; i < p.count; i++) ts[i] = (p.getY(i) - bb.min.y) / Math.max(1e-6, bb.max.y - bb.min.y)
+    // chibi shaping in the part's own space: belly (bulges out at mid height), taper (+ wider at the top, - at the bottom)
+    if (o.belly || o.taper) { const cx = (bb.min.x + bb.max.x) / 2, cz = (bb.min.z + bb.max.z) / 2
+      for (let i = 0; i < p.count; i++) { const t = ts[i], f = (1 + (o.taper || 0) * (t - 0.5) * 2) * (1 + (o.belly || 0) * Math.sin(Math.PI * Math.min(1, Math.max(0, t)))); p.setX(i, cx + (p.getX(i) - cx) * f); p.setZ(i, cz + (p.getZ(i) - cz) * f) } }
     _e.set(...(o.rot || [0, 0, 0]), o.order || 'XYZ'); _q.setFromEuler(_e); const s = o.scale ?? 1; _s.set(...(Array.isArray(s) ? s : [s, s, s]))
     geo.applyMatrix4(_m.compose(_v.set(...pos), _q, _s))
     // painted colour: a touch darker toward the part's own base (soft occlusion) and a creamy sheen where it faces up
@@ -102,8 +141,21 @@ class Builder {
     if (o.glow) this.glow.push(item); else if (o.pattern) (this.pattern[o.pattern] = this.pattern[o.pattern] || []).push(item); else this.parts.push(item)
     return this
   }
+  archFrame(w, hr, f, d, pos, name, o = {}) { return this.add(archFrameGeo(w, hr, f, d), pos, name, o) }
+  // one heart leaf: base at pos, length l, pointing along azimuth a (0 = +z) with elevation e (radians above horizontal), roll r
+  leaf(pos, l, a, e, name = 'leaf', o = {}) { return this.add(leafGeo(), pos, name, { out: true, ...o, scale: [l * (o.w ?? 1), l, l], rot: [Math.PI / 2 - e, a, o.roll || 0], order: 'YXZ' }) }
+  // a pothos clump: n leaves on a mound, pointing up and out
+  clump(pos, n, l, o = {}) { for (let i = 0; i < n; i++) { const a = i * 2.39996 + (o.phase || 0), e = (o.e ?? 0.75) + (i % 3) * 0.18 - (i / n) * 0.25, ll = l * (0.8 + (i % 4) * 0.08)
+      this.leaf([pos[0] + Math.sin(a) * l * 0.12, pos[1] + (i % 2) * l * 0.12, pos[2] + Math.cos(a) * l * 0.12], ll, a, e, i % 3 === 0 ? (o.alt || 'leafLight') : (o.name || 'leaf'), { roll: Math.sin(i * 1.7) * 0.3 }) } return this }
+  // a trailing vine over the pot rim: leaves along a drooping curve that get smaller toward the tip
+  vine(pos, a, len, n, l, o = {}) { for (let i = 0; i < n; i++) { const t = (i + 0.5) / n, out = Math.sin(t * 1.3) * len * 0.45, dn = t * t * len
+      const p = [pos[0] + Math.sin(a) * out, pos[1] - dn, pos[2] + Math.cos(a) * out], side = i % 2 ? 0.75 : -0.75
+      this.stick([0.0035, len / n * 1.25], [p[0], p[1] + len / n * 0.4, p[2]], o.stem || 'leafDark', { rot: [Math.cos(a) * -0.5, 0, Math.sin(a) * 0.5], out: false })
+      this.leaf(p, l * (1 - t * 0.4), a + side * 0.8, -0.1 - t * 0.5, i % 3 === 1 ? (o.alt || 'leafLight') : (o.name || 'leaf'), { roll: side * 0.4, w: 1, out: o.out ?? false }) } return this }
+  // an animated flame sheet (base at pos, facing +z; cross for a free-standing fire seen from any side)
+  fire(pos, w, h, o = {}) { this.fires.push({ pos, w, h, cross: !!o.cross }); return this }
   // a soft additive glow around a light source (a camera-facing sprite; one draw call)
-  halo(pos, r, color = '#ffc870') { this.halos.push({ pos, r, color }); return this }
+  halo(pos, r, color = '#ffc870', o = {}) { this.halos.push({ pos, r, color, flicker: !!o.flicker }); return this }
   // ---- shorthands (sizes are full sizes unless noted) ----
   box(size, pos, name, o = {}) { return this.add(rbox(size, o.r ?? Math.min(...size) * 0.22), pos, name, o) } // rounded box, edge radius r
   puff(size, pos, name, o = {}) { return this.add(puffGeo(size, o.bulge ?? 0.35), pos, name, o) } // cushion / mattress / pouf top
@@ -119,7 +171,7 @@ class Builder {
   leaves(pos, n, l, name = 'leaf', o = {}) { for (let i = 0; i < n; i++) { const a = i * 2.39996 + (o.phase || 0), tilt = (o.tilt ?? 0.9) + (i % 3) * 0.15, rr = l * 0.5 * Math.sin(tilt)
       this.ball([l * 0.26, l * 0.5, l * 0.11], [pos[0] + Math.sin(a) * rr, pos[1] + (o.up ?? 0) + Math.cos(tilt) * l * 0.5 + (i % 2) * l * 0.08, pos[2] + Math.cos(a) * rr], i % 3 === 0 ? (o.alt || 'leafLight') : name, { rot: [tilt, a, 0], order: 'YXZ', out: o.out ?? true }) } return this }
   // a daisy (white petals + yellow eye) facing up
-  daisy(pos, r = 0.02, petal = 'white', eye = 'quilt') { for (let i = 0; i < 6; i++) { const a = i / 6 * Math.PI * 2; this.ball([r * 0.5, r * 0.2, r * 0.28], [pos[0] + Math.sin(a) * r * 0.55, pos[1], pos[2] + Math.cos(a) * r * 0.55], petal, { rot: [0, a, 0], out: false }) } return this.ball([r * 0.36, r * 0.22, r * 0.36], [pos[0], pos[1] + r * 0.08, pos[2]], eye, { out: false }) }
+  daisy(pos, r = 0.02, petal = 'white', eye = 'quilt') { for (let i = 0; i < 7; i++) { const a = i / 7 * Math.PI * 2; this.ball([r * 0.46, r * 0.16, r * 0.26], [pos[0] + Math.sin(a) * r * 0.55, pos[1], pos[2] + Math.cos(a) * r * 0.55], petal, { rot: [0, a, 0], out: false }) } return this.ball([r * 0.36, r * 0.22, r * 0.36], [pos[0], pos[1] + r * 0.08, pos[2]], eye, { out: false }) }
   bake(size, o = {}) {
     const g = new THREE.Group()
     if (o.shadow !== false && size) { const sm = new THREE.Mesh(shadowGeo(), SHADOW); sm.scale.set(size[0] * 1.25 + 0.04, 1, size[2] * 1.25 + 0.04); sm.position.y = 0.003; sm.renderOrder = -1; g.add(sm) }
@@ -128,7 +180,8 @@ class Builder {
     const outl = [...this.parts, ...Object.values(this.pattern).flat()].filter(p => p.out).map(p => { const c = p.geo.clone(); if (c.attributes.uv) c.deleteAttribute('uv'); return c })
     if (outl.length) { const om = new THREE.Mesh(mergeGeometries(outl), OUTLINE); om.userData.outline = true; g.add(om) }
     if (this.glow.length) g.add(new THREE.Mesh(mergeGeometries(this.glow.map(p => p.geo)), GLOW))
-    for (const h of this.halos) { const sp = new THREE.Sprite(haloMat(h.color)); sp.position.set(...h.pos); sp.scale.setScalar(h.r * 2); sp.renderOrder = 5; g.add(sp) }
+    for (const f of this.fires) for (const ry of f.cross ? [0, Math.PI / 2] : [0]) { const m = new THREE.Mesh(fireGeo(), FIRE_MAT); m.position.set(...f.pos); m.scale.set(f.w, f.h, 1); m.rotation.y = ry; m.renderOrder = 4; m.onBeforeRender = tickFire; g.add(m) }
+    for (const h of this.halos) { const sp = new THREE.Sprite(haloMat(h.color)); sp.position.set(...h.pos); sp.scale.setScalar(h.r * 2); sp.renderOrder = 5; if (h.flicker) { sp.userData.r = h.r; sp.onBeforeRender = flicker } g.add(sp) }
     g.traverse(o => { if (o.isMesh) { o.castShadow = false; o.receiveShadow = false } })
     return g
   }
@@ -143,7 +196,7 @@ export function makeProp(id, o = {}) {
   const def = CATALOG[id]; if (!def) throw new Error('unknown prop ' + id)
   const key = id + JSON.stringify(o)
   if (!made.has(key)) { const k = new Builder({ ...def.pal, ...(o.pal || {}) }); def.build(k, { ...def.opts, ...o }); made.set(key, k.bake(def.size, { ...def.opts, ...o })) }
-  const src = made.get(key), g = new THREE.Group(); src.children.forEach(m => g.add(m.clone())); g.userData.prop = id; return g
+  const src = made.get(key), g = new THREE.Group(); src.children.forEach(m => { const c = m.clone(); c.onBeforeRender = m.onBeforeRender; g.add(c) }); g.userData.prop = id; return g
 }
 // floor footprint (x/z box around the origin, after a yaw of 0 / 90 / 180 / 270 deg) for collision lists like home BLOCKS
 export function footprint(id, x, z, yaw = 0, pad = 0) { const [w, , d] = CATALOG[id].size, q = Math.round(yaw / (Math.PI / 2)) & 1, hw = (q ? d : w) / 2 + pad, hd = (q ? w : d) / 2 + pad; return { id, x0: x - hw, x1: x + hw, z0: z - hd, z1: z + hd } }
